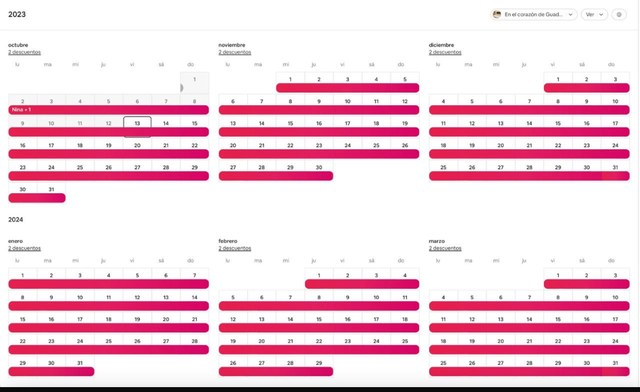
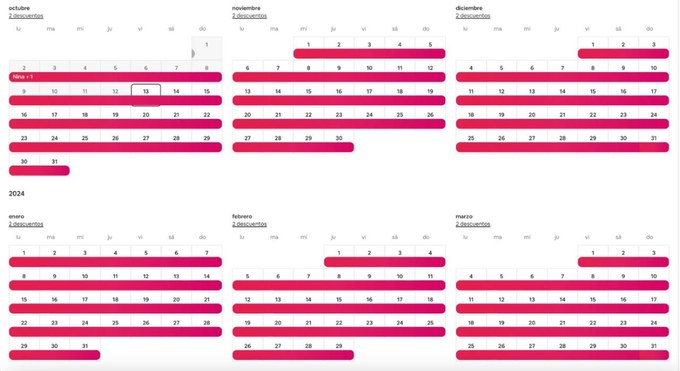
Curso en vivo: actualiza muro de capturas con más pruebas reales (Superhost, reservas, calendarios, ingresos diarios)

diff --git a/curso-en-vivo.html b/curso-en-vivo.html
@@ -632,11 +632,16 @@ document.addEventListener('click',function(e){
   <p class="sub">Capturas reales, tal cual llegan — mensajes de alumnos y resultados directo de la app de Airbnb.</p>
   <div class="proof-wall">
     <div class="proof-card"><img src="assets/review-alumna-1.jpg" alt="Mensaje de una alumna agradeciendo el curso" loading="lazy"><div class="cap">Cristina, utilidad desde el primer mes</div></div>
+    <div class="proof-card"><img src="assets/prueba-cristina-superhost.jpg" alt="Cristina alcanzando el estatus de Superhost en Airbnb" loading="lazy"><div class="cap">Cristina, ya es Superhost</div></div>
+    <div class="proof-card"><img src="assets/prueba-guillermo-reserva.jpg" alt="Guillermo compartiendo su primera reserva de 42 noches" loading="lazy"><div class="cap">Guillermo, su primera reserva: 42 noches</div></div>
+    <div class="proof-card"><img src="assets/prueba-rodrigo-reservacion.jpg" alt="Rodrigo con una reservación pendiente de $14,762" loading="lazy"><div class="cap">Rodrigo, reservación por $14,762</div></div>
+    <div class="proof-card"><img src="assets/prueba-calendario-septiembre.jpg" alt="Calendario de Airbnb de septiembre casi lleno" loading="lazy"><div class="cap">Calendario real, casi lleno</div></div>
     <div class="proof-card"><img src="assets/prueba-calendario-lleno.jpg" alt="Calendario de Airbnb con 6 meses casi llenos" loading="lazy"><div class="cap">6 meses casi llenos, calendario real</div></div>
-    <div class="proof-card"><img src="assets/review-alumna-2.jpg" alt="Mensaje de una alumna sobre su primer departamento" loading="lazy"><div class="cap">Lyda, arrancando su segundo Airbnb</div></div>
+    <div class="proof-card"><img src="assets/prueba-calendario-abril.jpg" alt="Calendario de abril casi lleno con ingresos por reserva" loading="lazy"><div class="cap">Abril casi lleno, ingresos por reserva</div></div>
     <div class="proof-card"><img src="assets/prueba-pago-airbnb.jpg" alt="Notificación de pago enviado por Airbnb" loading="lazy"><div class="cap">Pago confirmado, directo de Airbnb</div></div>
     <div class="proof-card"><img src="assets/prueba-desglose-ingresos.jpg" alt="Desglose de ingresos de una propiedad en Airbnb" loading="lazy"><div class="cap">Desglose real de ingresos de una propiedad</div></div>
-    <div class="proof-card"><img src="assets/review-alumna-3.jpg" alt="Mensaje y calendario de una pareja alumna" loading="lazy"><div class="cap">Una pareja alumna, su calendario de abril</div></div>
+    <div class="proof-card"><img src="assets/prueba-ingresos-diarios-1.jpg" alt="Notificación de pago de Airbnb, ingresos diarios" loading="lazy"><div class="cap">Ingresos diarios</div></div>
+    <div class="proof-card"><img src="assets/prueba-ingresos-diarios-2.jpg" alt="Notificación de pago de Airbnb, ingresos diarios" loading="lazy"><div class="cap">Ingresos diarios</div></div>
   </div>
   <div class="cta-mid"><a href="#inscripcion" class="cv-cta" style="background:#fff;color:var(--sky-deeper);">Quiero resultados así →</a></div>
 </section>
